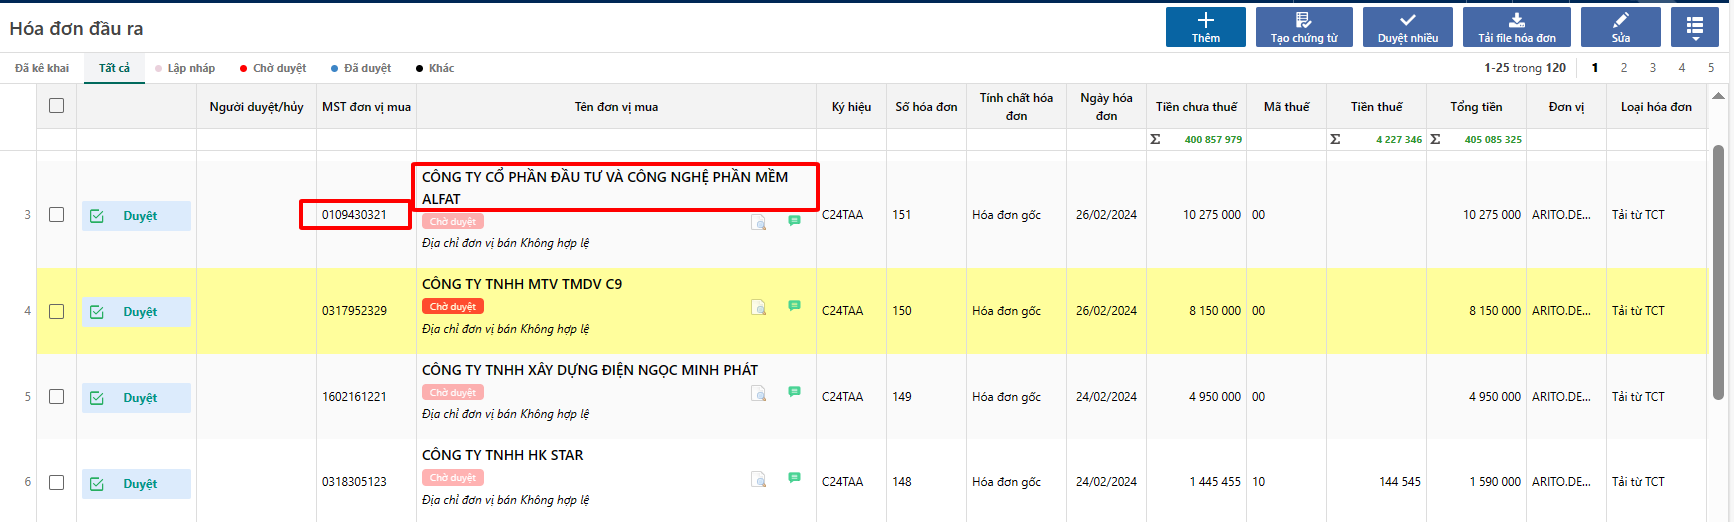
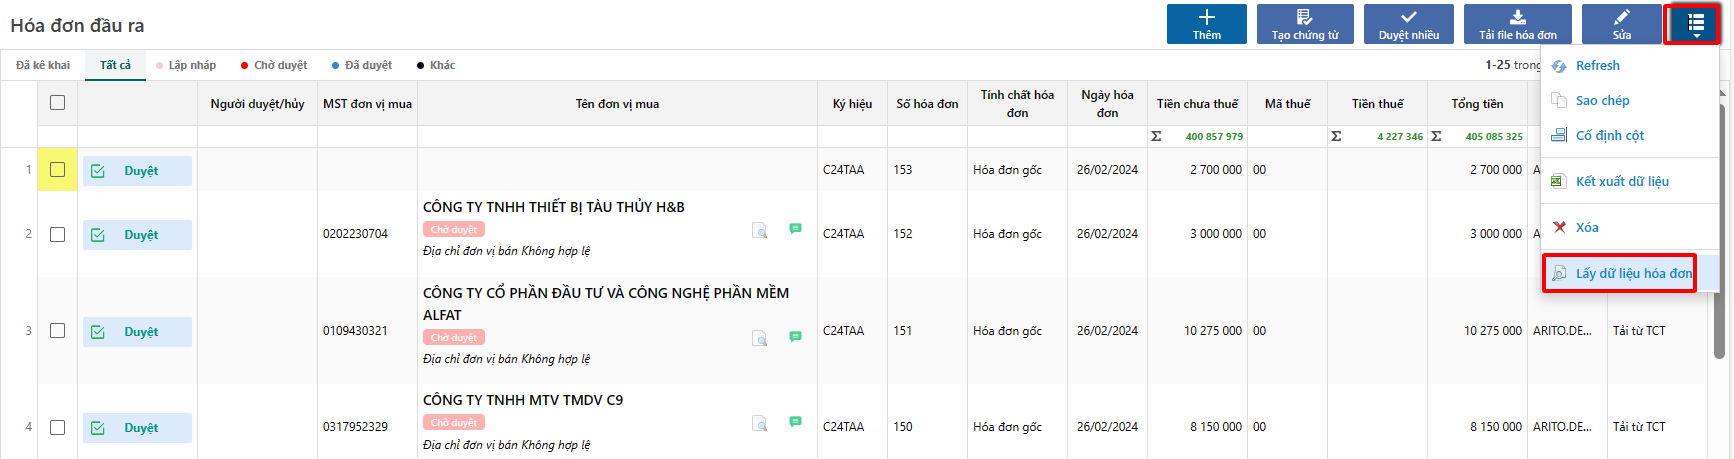
GITBOOK-16: No subject

diff --git a/cach-tao-chung-tu-ke-toan-tu-hoa-don-dau-vao.md b/cach-tao-chung-tu-ke-toan-tu-hoa-don-dau-vao.md
@@ -36,9 +36,9 @@ Các mục đích chính của việc tạo chứng từ kế toán từ hoá đ
 **Một số lưu ý:**
 
 * Nếu mã số thuế người bán đã tồn tại trong danh mục nhà cung cấp, chương trình sẽ load tự động các thông tin mã nhà cung cấp, tên nhà cung cấp, địa chỉ theo thông tin khai báo trong danh mục nhà cung cấp.
-* Nếu mã số thuế người bán chưa tồn tại trong danh mục nhà cung cấp, người dùng cần nhấn vào biểu tượng ![](<.gitbook/assets/image (1) (1).png>) để thêm mới thông tin nhà cung cấp, xem hướng dẫn thêm mới nhà cung cấp [tại đây.](https://app.gitbook.com/s/bydpvJ6g68FMDkXOSzVB/bat-dau-s-dung/thiet-lap-danh-muc/danh-muc-nha-cung-cap)
+* Nếu mã số thuế người bán chưa tồn tại trong danh mục nhà cung cấp, người dùng cần nhấn vào biểu tượng ![](<.gitbook/assets/image (1) (1) (1).png>) để thêm mới thông tin nhà cung cấp, xem hướng dẫn thêm mới nhà cung cấp [tại đây.](https://app.gitbook.com/s/bydpvJ6g68FMDkXOSzVB/bat-dau-s-dung/thiet-lap-danh-muc/danh-muc-nha-cung-cap)
 * Nếu tên sản phẩm đã tồn tại trong danh mục vật tư, chương trình sẽ lấy tự động mã vật tư, tên vật tư, đơn vị tính, ... theo thông tin đã khai báo trong danh mục vật tư.
-* Nếu tên sản phẩm chưa tồn tại trong danh mục vật tư, người dùng cần nhấn vào biểu tượng ![](<.gitbook/assets/image (1) (1).png>) để thêm mới thông tin vật tư, xem hướng dẫn thêm mới vật tư [tại đây.](https://app.gitbook.com/s/bydpvJ6g68FMDkXOSzVB/bat-dau-s-dung/thiet-lap-danh-muc/danh-muc-vat-tu-san-pham)
+* Nếu tên sản phẩm chưa tồn tại trong danh mục vật tư, người dùng cần nhấn vào biểu tượng ![](<.gitbook/assets/image (1) (1) (1).png>) để thêm mới thông tin vật tư, xem hướng dẫn thêm mới vật tư [tại đây.](https://app.gitbook.com/s/bydpvJ6g68FMDkXOSzVB/bat-dau-s-dung/thiet-lap-danh-muc/danh-muc-vat-tu-san-pham)
 
 #### Trường hợp 2: Tạo hoá đơn mua dịch vụ
 
@@ -53,4 +53,4 @@ Các mục đích chính của việc tạo chứng từ kế toán từ hoá đ
 **Một số lưu ý:**
 
 * Nếu tên dịch vụ đã tồn tại trong danh mục dịch vụ, chương trình sẽ lấy tự động mã dịch vụ, tên dịch vụ, đơn vị tính, tài khoản có ... theo thông tin đã khai báo trong danh mục dịch vụ.
-* Nếu tên dịch vụ chưa tồn tại trong danh mục dịch vụ, người dùng cần nhấn vào biểu tượng ![](<.gitbook/assets/image (1) (1).png>) để thêm mới thông tin dịch vụ.
+* Nếu tên dịch vụ chưa tồn tại trong danh mục dịch vụ, người dùng cần nhấn vào biểu tượng ![](<.gitbook/assets/image (1) (1) (1).png>) để thêm mới thông tin dịch vụ.

diff --git a/hoa-don-ban-ra/tao-chung-tu.md b/hoa-don-ban-ra/tao-chung-tu.md
@@ -1,0 +1,42 @@
+# Tạo chứng từ
+
+Tạo chứng từ kế toán (hoá đơn bán hàng hoá, hoá đơn bán dịch vụ) để hạch toán doanh thu bán hàng,  phục vụ cho việc kê khai và lập bảng kê hoá đơn bán ra.
+
+Các mục đích chính của việc tạo chứng từ kế toán từ hoá đơn bán ra bao gồm:
+
+* Kê khai hoá đơn bán ra.
+* Hạch toán kế toán các hoá đơn hợp lệ.
+
+## Các bước thực hiện
+
+### Trường hợp 1: Hoá đơn bán hàng hoá
+
+**Bước 1:** Chọn phiếu và nhấn **Tạo chứng từ,** chọn **Hoá đơn bán hàng hoá.**
+
+<figure><img src="../.gitbook/assets/image.png" alt=""><figcaption></figcaption></figure>
+
+**Bước 2**: Tại màn hình Hoá đơn mua hàng hoá, kiểm tra các thông tin được tạo tự động và thêm các thông tin cần theo dõi.
+
+<figure><img src="../.gitbook/assets/image (1).png" alt=""><figcaption></figcaption></figure>
+
+**Một số lưu ý:**
+
+* Nếu mã số thuế người mua đã tồn tại trong danh mục khách hàng, chương trình sẽ load tự động các thông tin mã khách hàng, tên khách hàng, địa chỉ theo thông tin khai báo trong danh mục khách hàng.
+* Nếu mã số thuế người mua chưa tồn tại trong danh mục khách hàng, người dùng cần nhấn vào biểu tượng ![](broken-reference) để thêm mới thông tin khách hàng.
+* Nếu tên sản phẩm đã tồn tại trong danh mục vật tư, chương trình sẽ lấy tự động mã sản phẩm, tên sản phẩm, đơn vị tính, ... theo thông tin đã khai báo trong danh mục vật tư.
+* Nếu tên sản phẩm chưa tồn tại trong danh mục vật tư, người dùng cần nhấn vào biểu tượng ![](broken-reference) để thêm mới thông tin sản phẩm.
+
+### Trường hợp 2: Tạo hoá đơn bán dịch vụ
+
+**Bước 1:** Chọn phiếu và tạo chứng từ Hoá đơn bán dịch vụ.
+
+<figure><img src="../.gitbook/assets/image (2).png" alt=""><figcaption></figcaption></figure>
+
+**Bước 2:** Tại màn hình Hoá đơn bán dịch vụ, kiểm tra các thông tin được tạo tự động và thêm các thông tin cần theo dõi.
+
+<figure><img src="../.gitbook/assets/image (3).png" alt=""><figcaption></figcaption></figure>
+
+**Một số lưu ý:**
+
+* Nếu tên dịch vụ đã tồn tại trong danh mục dịch vụ, chương trình sẽ lấy tự động mã dịch vụ, tên dịch vụ, đơn vị tính, tài khoản có ... theo thông tin đã khai báo trong danh mục dịch vụ.
+* Nếu tên dịch vụ chưa tồn tại trong danh mục dịch vụ, người dùng cần nhấn vào biểu tượng ![](broken-reference) để thêm mới thông tin dịch vụ.

diff --git a/hoa-don-ban-ra/lay-hoa-don.md b/hoa-don-ban-ra/lay-hoa-don.md
@@ -10,10 +10,10 @@ Chương trình tự động lấy hóa đơn từ hộp Mail ( hoặc từ Tổ
 
 Các hóa đơn được lấy về cập nhật sẽ có trạng thái **Chờ duyệt.**
 
-<figure><img src="../.gitbook/assets/image (3).png" alt=""><figcaption></figcaption></figure>
+<figure><img src="../.gitbook/assets/image (5).png" alt=""><figcaption></figcaption></figure>
 
 Trường hợp chương trình chưa kịp cập nhật tự động hoá đơn thì người dùng có thể lấy ngay hoá đơn về bằng cách nhấn **Lấy dữ liệu hoá đơn mới.**
 
-<figure><img src="../.gitbook/assets/image (4).png" alt=""><figcaption></figcaption></figure>
+<figure><img src="../.gitbook/assets/image (6).png" alt=""><figcaption></figcaption></figure>
 
-<figure><img src="../.gitbook/assets/image (5).png" alt=""><figcaption></figcaption></figure>
+<figure><img src="../.gitbook/assets/image (7).png" alt=""><figcaption></figcaption></figure>

diff --git a/lay-du-lieu-hoa-don-dau-vao.md b/lay-du-lieu-hoa-don-dau-vao.md
@@ -28,6 +28,6 @@ Các hóa đơn được lấy về cập nhật sẽ có trạng thái **Chờ 
 
 Trường hợp chương trình chưa kịp cập nhật tự động hoá đơn thì người dùng có thể lấy ngay hoá đơn về bằng cách nhấn **Lấy dữ liệu hoá đơn mới.**
 
-<figure><img src=".gitbook/assets/image (1).png" alt=""><figcaption></figcaption></figure>
+<figure><img src=".gitbook/assets/image (1) (1).png" alt=""><figcaption></figcaption></figure>
 
-<figure><img src=".gitbook/assets/image (2).png" alt=""><figcaption></figcaption></figure>
+<figure><img src=".gitbook/assets/image (2) (1).png" alt=""><figcaption></figcaption></figure>

diff --git a/mot-so-tac-vu-cua-hoa-don-dau-vao/tai-xml-va-pdf-cua-hoa-don.md b/mot-so-tac-vu-cua-hoa-don-dau-vao/tai-xml-va-pdf-cua-hoa-don.md
@@ -27,7 +27,7 @@ Các tùy chọn tải file gồm:
 
 **Bước 1:** Chọn một hoặc nhiều hoá đơn để tải -> chọn tùy chọn Tải file hoá đơn.
 
-<figure><img src="../.gitbook/assets/image.png" alt=""><figcaption><p>Tick chọn hóa đơn cần tải và nhấn tải file</p></figcaption></figure>
+<figure><img src="../.gitbook/assets/image (4).png" alt=""><figcaption><p>Tick chọn hóa đơn cần tải và nhấn tải file</p></figcaption></figure>
 
 **Bước 2:** Kiểm tra và mở file .zip được tải về
 

diff --git a/hoa-don-ban-ra/tai-file-hoa-don.md b/hoa-don-ban-ra/tai-file-hoa-don.md
@@ -9,4 +9,4 @@ Check chọn Hóa đơn cần tải file -> Bấm vào biểu tượng Tải fil
 * _HTML từ TCT:_  Tải file PDF hóa đơn được kéo về trực tiếp TCT.
 * _XML từ TCT :_ Tải file XML hóa đơn được kéo về trực tiếp TCT.
 
-<figure><img src="../.gitbook/assets/image (11).png" alt=""><figcaption></figcaption></figure>
+<figure><img src="../.gitbook/assets/image (13).png" alt=""><figcaption></figcaption></figure>

diff --git a/SUMMARY.md b/SUMMARY.md
@@ -16,3 +16,4 @@
   * [Lấy hóa đơn](hoa-don-ban-ra/lay-hoa-don.md)
   * [Kiểm tra thông tin và xét duyệt hóa đơn](hoa-don-ban-ra/kiem-tra-thong-tin-va-xet-duyet-hoa-don.md)
   * [Tải file hóa đơn](hoa-don-ban-ra/tai-file-hoa-don.md)
+  * [Tạo chứng từ](hoa-don-ban-ra/tao-chung-tu.md)
